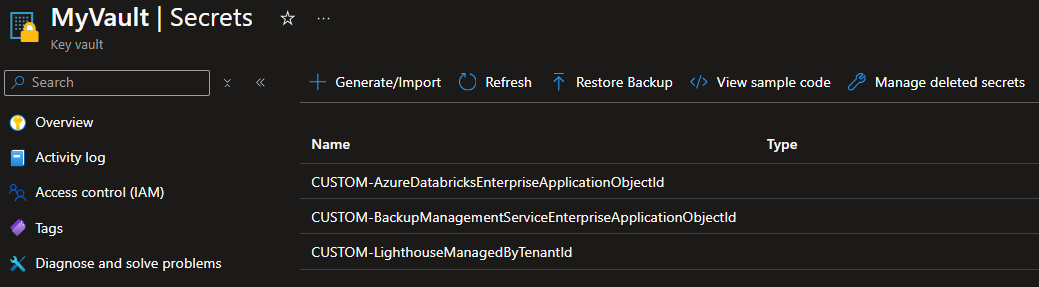
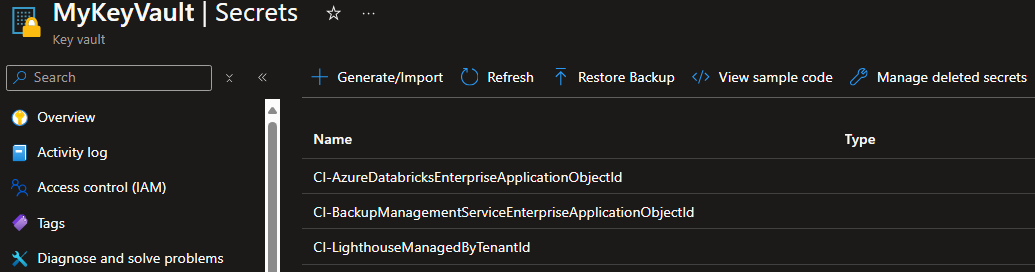
Updated naming and images

diff --git a/docs/content/contributing/bicep/bicep-contribution-flow/contributor-secrets.md b/docs/content/contributing/bicep/bicep-contribution-flow/contributor-secrets.md
@@ -31,16 +31,16 @@ param backupManagementServiceEnterpriseObectId string
 ```
 assuming that it would be provided with the correct value by the AVM CI. You consequently reference it in your test case as you would with any other Bicep parameter.
 
-Next, you create a new secret of the same name with a prefix `CUSTOM-` in a previously created Azure Key Vault of your test subscription (e.g., `CUSTOM-BackupManagementServiceEnterpriseObectId`). Its value would be the object id the Enterprise Application has in the tenant of your test subscription. 
+Next, you create a new secret of the same name with a prefix `CI-` in a previously created Azure Key Vault of your test subscription (e.g., `CI-BackupManagementServiceEnterpriseObectId`). Its value would be the object id the Enterprise Application has in the tenant of your test subscription. 
 
-Assuming that also the `KEY_VAULT_NAME` GitHub Repository variable is configured correctly, you can now run your test pipeline and observe how the CI automatically pulls the secret and passes it into your test cases, IF, they have a parameter with a matching name.
+Assuming that also the `CI_KEY_VAULT_NAME` GitHub Repository variable is configured correctly, you can now run your test pipeline and observe how the CI automatically pulls the secret and passes it into your test cases, IF, they have a parameter with a matching name.
 
 # Pre-Requisites
 
 To use this feature, there are really only three prerequisites:
 1. Create an Azure Key Vault in your test subscription
 1. Grant the principal you use for testing in the CI at least _`Key Vault Secrets User'_ permissions on that Key Vault to enable it to pull secrets from it
-1. Configure the name of that Key Vault as a 'Repository variable' `KEY_VAULT_NAME` in your Fork.
+1. Configure the name of that Key Vault as a 'Repository variable' `CI_KEY_VAULT_NAME` in your Fork.
 
 The above will enable the CI to identify your Key Vault, look for matching secrets in it, and pull their values as needed.
 
@@ -53,7 +53,7 @@ Building upon the prerequisites you only have to implement two actions per value
 
    For example:
    ```bicep
-   @description('Required. The secret needed for testing. This value is tenant-specific and its value must be configured in the secrets vault as \'CUSTOM-MySecret\'.')
+   @description('Required. The secret needed for testing. This value is tenant-specific and its value must be configured in the secrets vault as \'CI-MySecret\'.')
    @secure()
    param mySecret string
    ```
@@ -64,16 +64,16 @@ Building upon the prerequisites you only have to implement two actions per value
  
    {{< /hint >}}
 
-1. Configure a secret of the same name, but with a `CUSTOM-` prefix and corresponding value in the Azure Key Vault you set up as per the prerequisites.
+1. Configure a secret of the same name, but with a `CI-` prefix and corresponding value in the Azure Key Vault you set up as per the prerequisites.
 
    <img src="../../../../static/img/contribution/secrets/kvltSecret-exampleSecrets.png" alt="Example secrets in Key Vault" height="200">
 
 # How it works
 
 Assuming you completed both the [prerequisites](#pre-requisites) & [setup](#configuring-a-secret) steps and triggered your module's workflow, the CI will perform the following actions:
-1. When approaching the deployment validation steps, the workflow will lookup the `KEY_VAULT_NAME` repository variable
-1. If it has a value, it will subsequently pull all available secret references (not their values!) from that Key Vault, filtered down to only the secrets that match the `CUSTOM-` prefix
-1. It will then loop through these secret references and check if any match a parameter in the targeted `test.main.bicep` of the same name, but without the `CUSTOM-` prefix
+1. When approaching the deployment validation steps, the workflow will lookup the `CI_KEY_VAULT_NAME` repository variable
+1. If it has a value, it will subsequently pull all available secret references (not their values!) from that Key Vault, filtered down to only the secrets that match the `CI-` prefix
+1. It will then loop through these secret references and check if any match a parameter in the targeted `test.main.bicep` of the same name, but without the `CI-` prefix
 1. Only for a match, the workflow with then pull the secret from the Key Vault and pass its value as a `SecureString` as a parameter into the template deployment.
 
 When reviewing the log during or after a run, you can see each matching and pulled secret is/was added as part of the `AdditionalParameters` object as seen in the following:
